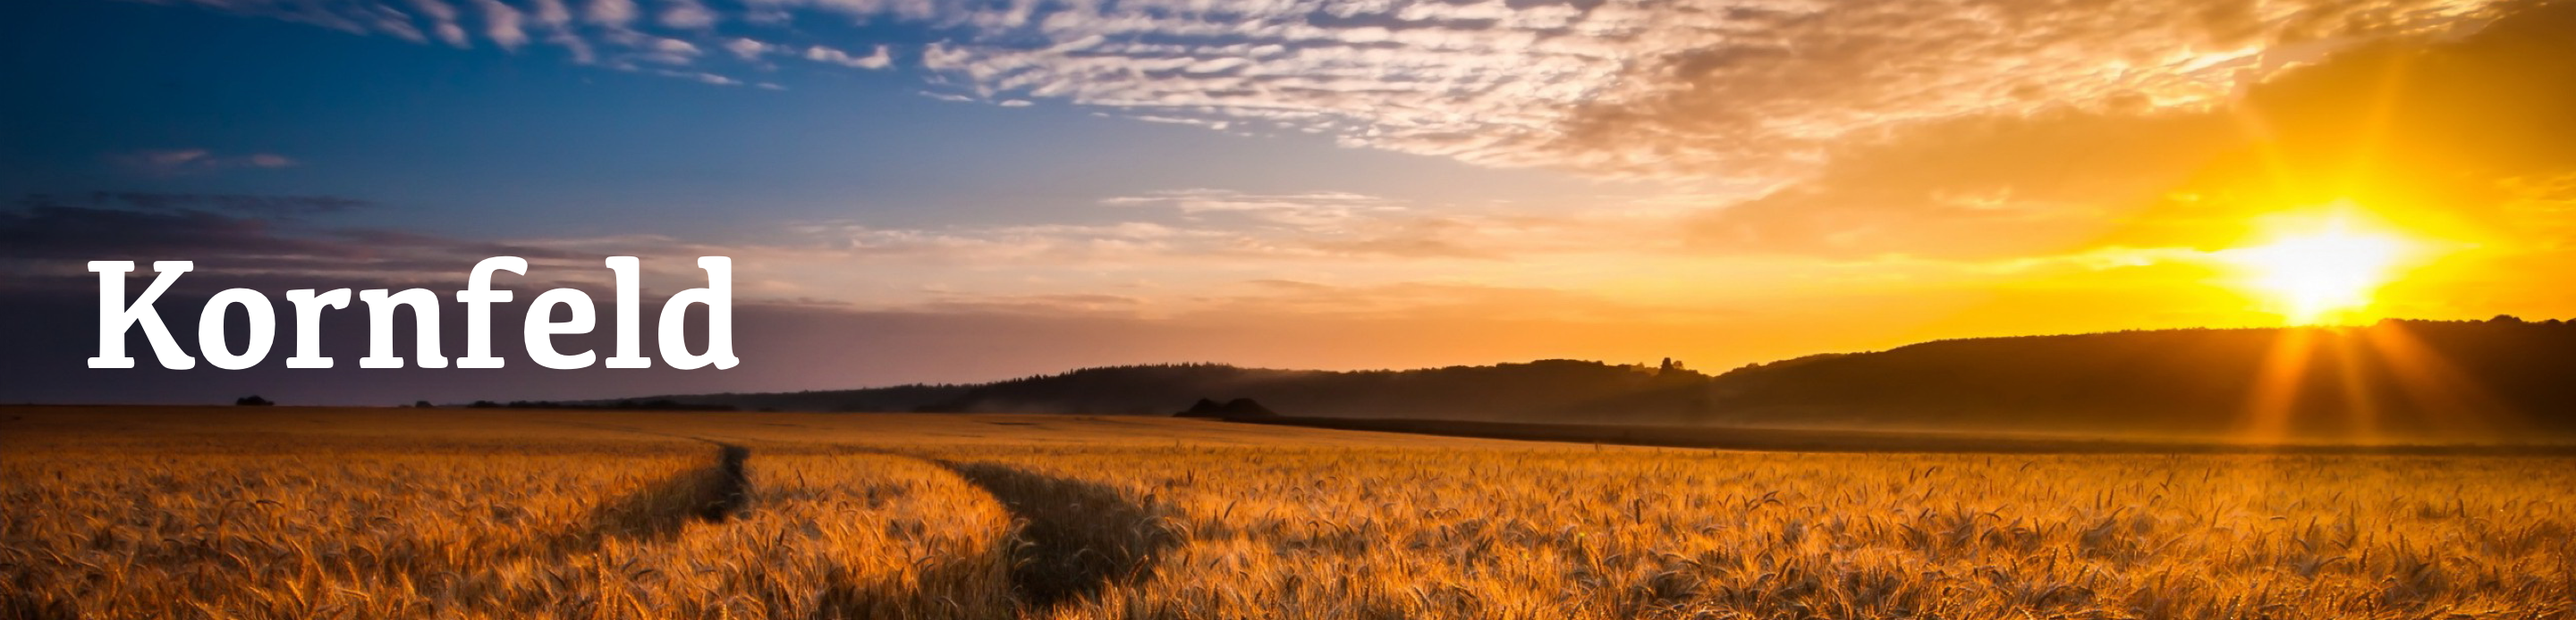
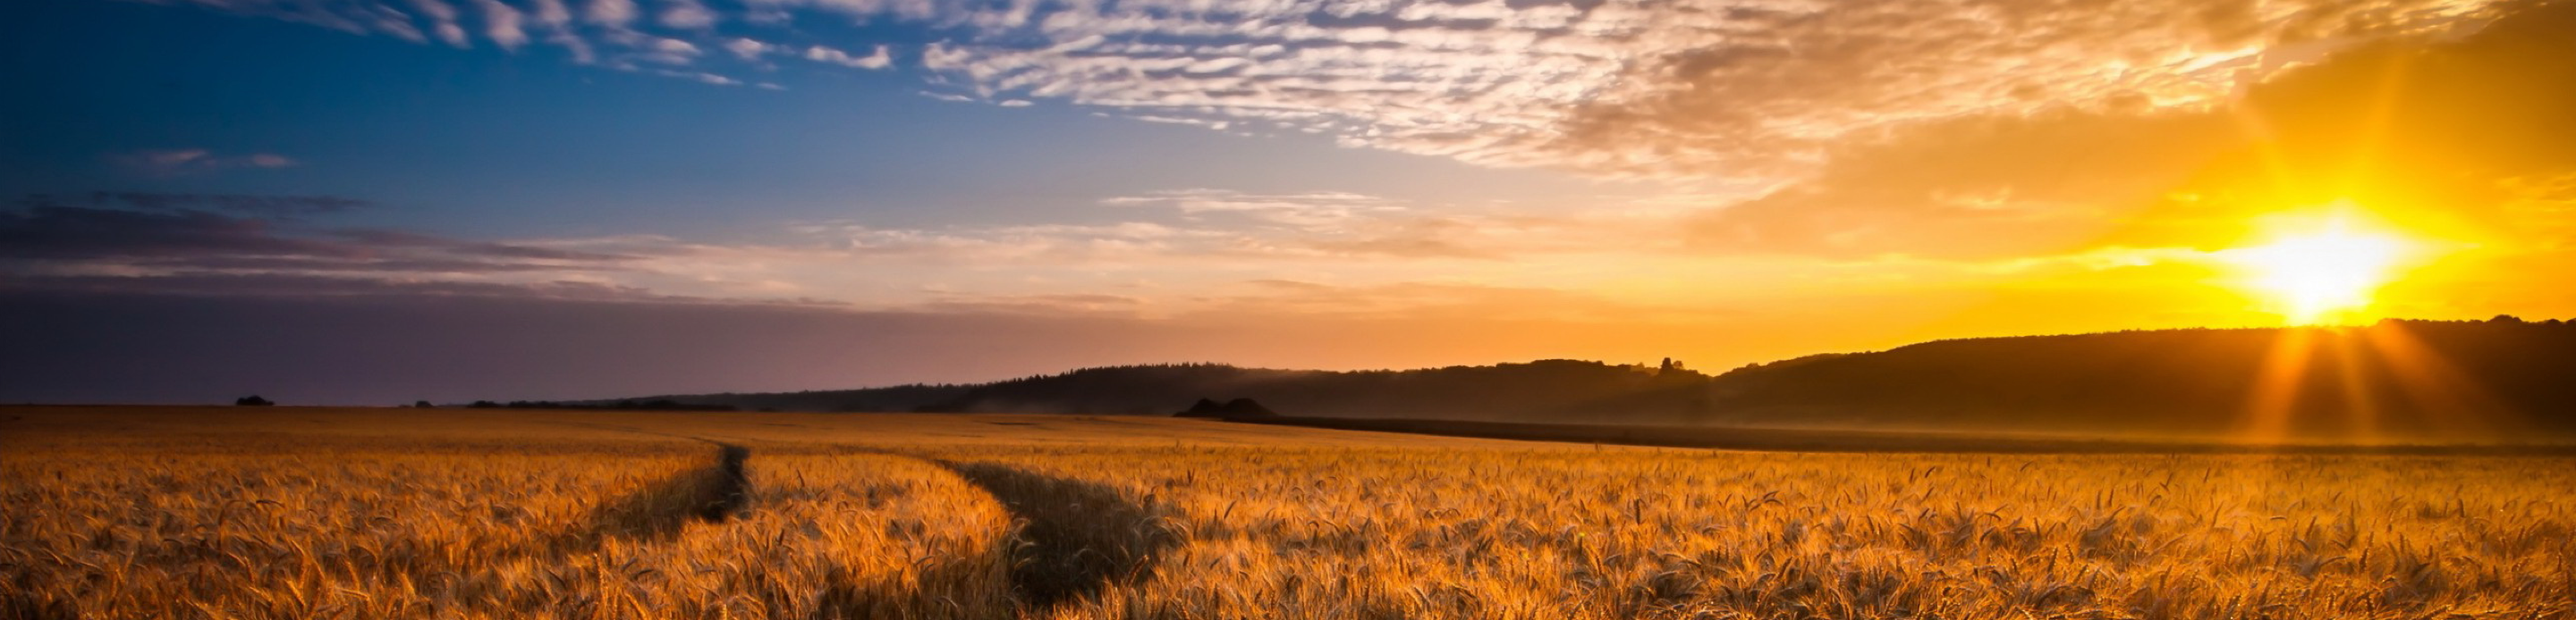
First

Changed region(s): [[0.0312, 0.3934, 0.3125, 0.6052]]

diff --git a/Articles/VriolinsStern.html b/Articles/VriolinsStern.html
@@ -1,10 +1,19 @@
 <!DOCTYPE html>
 <html>
 	<head>
-		<title></title>
+		<title>Vriolin's Stern | A Story by Valentin Walter</title>
 		<link href="article.css" type="text/css" rel="stylesheet">
+		<meta charset="UTF-8"/>
 	</head>
 	<body>
-		<img src="VriolinsStern.png" width="1440" height="3721">
+		<img id="article-img" src="Vriolins Stern Image.jpg" width="1508" height="1003">
+		<h1>Vriolin's Stern</h1>
+		<p>Jedesmal, wenn ich in den Himmel sah, bekam ich dieses überwältigende Gefühl. Egal wie oft oder wie lange ich in den Nachthimmel hinaufsah. Immer wieder überwältigten mich meine Gefühle. Ich konnte Sterne, die Millionen, sogar Milliarden von Jahren pausenlos im Erden Himmel geschienen haben. Seit Anbeginn der Menschheit spielten die Sterne eine einflussreiche Rolle. Menschen sahen in kleinen Anordnungen ganze Figuren in ihnen. Seefahrer hatten es Ihnen zu verdanken ganze Ozeane überqueren konnten. Manche setzten sie den Göttern gleich. 
+		Ich mochte es, mir diese Geschichten in Erinnerung zu rufen. Es half mir die Dinge in Perspektive zu bringen. Dinge wie den Krieg. 
+		Einen Krieg den ich nicht verstand. Mit dem ich nichts zu tun hatte und ihn am liebsten vergessen würde. 
+		Aber er war nicht zu übersehen. Wie weit ich mich auch zurückzog, irgendwo konnte man immer die Explosionen hören. Irgendwo am Horizont konnte man immer die Atompilze sehen.
+		Der Krieg fand immer einen Weg noch weiter in die einstige Schönheit dieser Welten einzudringen. 
+		Seit die Raumfahrt entwickelt wurde, war selbst der Nachthimmel wurde zum Schauplatz der Zerstörung. 
+		Keine Nacht verging, ohne dass tausende kleine Lichtpunkte kurz aufleuchteten. Und dann für immer verschwanden. Jeder dieser tausenden Lichter ein Beweis für tausende weitere verloren gegangene Leben. </p>
 	</body>
 </html>

diff --git a/main.css b/main.css
@@ -1,10 +1,64 @@
+html {
+	margin: 0;
+	padding: 0;
+	background-color: #000; 
+}
+
 body {
-background-color: #000;                        
+	font-family: Kefa, Georgia;
+	font-size: 60px;                       
+	width: 1440px;
+	margin: 0 auto 0 auto;
 }
 
 img {
 	display: block;
-	width: 1440;
-	margin-left: auto;
-	margin-right: auto;
+	position: relative;
+}
+
+
+.grow img {
+	height: 347px;
+	width: 1440px;
+	left: 0px;
+	top: 0px;
+	margin-bottom: 20px;
+ 
+ 	 -webkit-transition: all 0.5s cubic-bezier(0.34, -0.98, 0.27, 2.64);
+ 	    -moz-transition: all 0.5s cubic-bezier(0.34, -0.98, 0.27, 2.64);
+  	   	  -o-transition: all 0.5s cubic-bezier(0.34, -0.98, 0.27, 2.64);
+  	     -ms-transition: all 0.5s cubic-bezier(0.34, -0.98, 0.27, 2.64);
+     	     transition: all 0.5s cubic-bezier(0.34, -0.98, 0.27, 2.64);
+}
+ 
+.grow img:hover {
+	left: -12px;
+	top: -1px;
+	height: 350px;
+	width: 1464px;
+	margin-bottom: 17px;
+}
+
+img#heading-pic {
+	height: 811px;
+	margin-bottom: 20
+}
+
+.article-headings {
+	font-size: 200%;
+	margin-top: 100px;
+	color: #FFFFFF;
+	margin: 100px;
+}
+
+#VriolinsStern {
+	background-image: url("Vriolins Stern.png");
+}
+
+#VarSundra {
+	background-image: url("Var Sundra.png");
+}
+
+#Kornfeld {
+	background-image: url(Kornfeld.png);
 }

diff --git a/index.html b/index.html
@@ -1,18 +1,17 @@
 <!DOCTYPE html>
 <html>
 	<head>
-		<title>Space</title>
+		<title>Stories by Valentin Walter</title>
 		<link href="main.css" type="text/css" rel="stylesheet">
 	</head>
 	<body>
-		<a href="Heading.html"><img src="Heading.png" width="1440" height="861">
-		<a href="Articles/VriolinsStern.html"><img src="Vriolin's Stern.png" width="1440" height="397">
-		</a>
-		<a href="Articles/VarSundra.html"><img src="Var Sundra.png" width="1440" height="397">
-		</a>
-		<a href="Articles/Kornfeld.html"><img src="Kornfeld.png" width="1440" height="397">
-		</a>
-		<a href="experimental.html"><img src="Experimental Button.png" width="1440" height="79">
-		</a>
+		<div class="grow">
+		<div class="article-headings">
+			<p id="VriolinsStern">Vriolin's Stern</p>
+			<p id="VarSundra">Var Sundra</p>
+			<p id="Kornfeld">Kornfeld</p>
+		</div>
+		</div>
 	</body>
 </html>
+

diff --git a/Articles/article.css b/Articles/article.css
@@ -1,10 +1,34 @@
-body {
-background-color: #000;                        
+html, h1, h2, h3 {
+	margin: 0;
+	padding: 0;
+	margin-top: 0;
 }
 
-img {
+body {
+	background-color: #000; 
+	font-family: Kefa, Georgia;
+	font-size: 30px;   
+	text-align: left;
+	color: #FFFFFF;   
+	width: 1440px;
+	margin-top: 0px;
+	margin-left: 100px;
+	position: relative;
+}
+
+h1 {
+	font-size: 220%;
+	color: #FFFFFF;
+	text-align: left;
+	margin-left: auto 100px;
+	margin-top: 500;
+}
+
+#article-img {
 	display: block;
+	z-index: -10;
 	width: 1440;
-	margin-left: auto;
-	margin-right: auto;
+	position: absolute;
+	top: 0px;
+	left: 0px;
 }

diff --git a/Articles/VarSundra.html b/Articles/VarSundra.html
@@ -1,8 +1,9 @@
 <!DOCTYPE html>
 <html>
 	<head>
-		<title></title>
+		<title>Var Sundra | A Story by Valentin Walter</title>
 		<link href="article.css" type="text/css" rel="stylesheet">
+		<meta charset="UTF-8"/>
 	</head>
 	<body>
 		<img src="VarSundra.png" width="1440" height="8739">

diff --git a/Articles/Kornfeld.html b/Articles/Kornfeld.html
@@ -1,8 +1,9 @@
 <!DOCTYPE html>
 <html>
 	<head>
-		<title></title>
+		<title>Kornfeld | A Story by Valentin Walter</title>
 		<link href="article.css" type="text/css" rel="stylesheet">
+		<meta charset="UTF-8"/>
 	</head>
 	<body>
 		<img src="Kornfeld.png" width="1440" height="2552">

diff --git a/Heading.html b/Heading.html
@@ -1,8 +1,9 @@
 <!DOCTYPE html>
 <html>
 	<head>
-		<title></title>
+		<title>About Me | Stories by Valentin Walter</title>
 		<link href="main.css" type="text/css" rel="stylesheet">
+		<meta charset="UTF-8">
 	</head>
 	<body>
 		<img src="AboutMe.png" width="1440" height="610">
